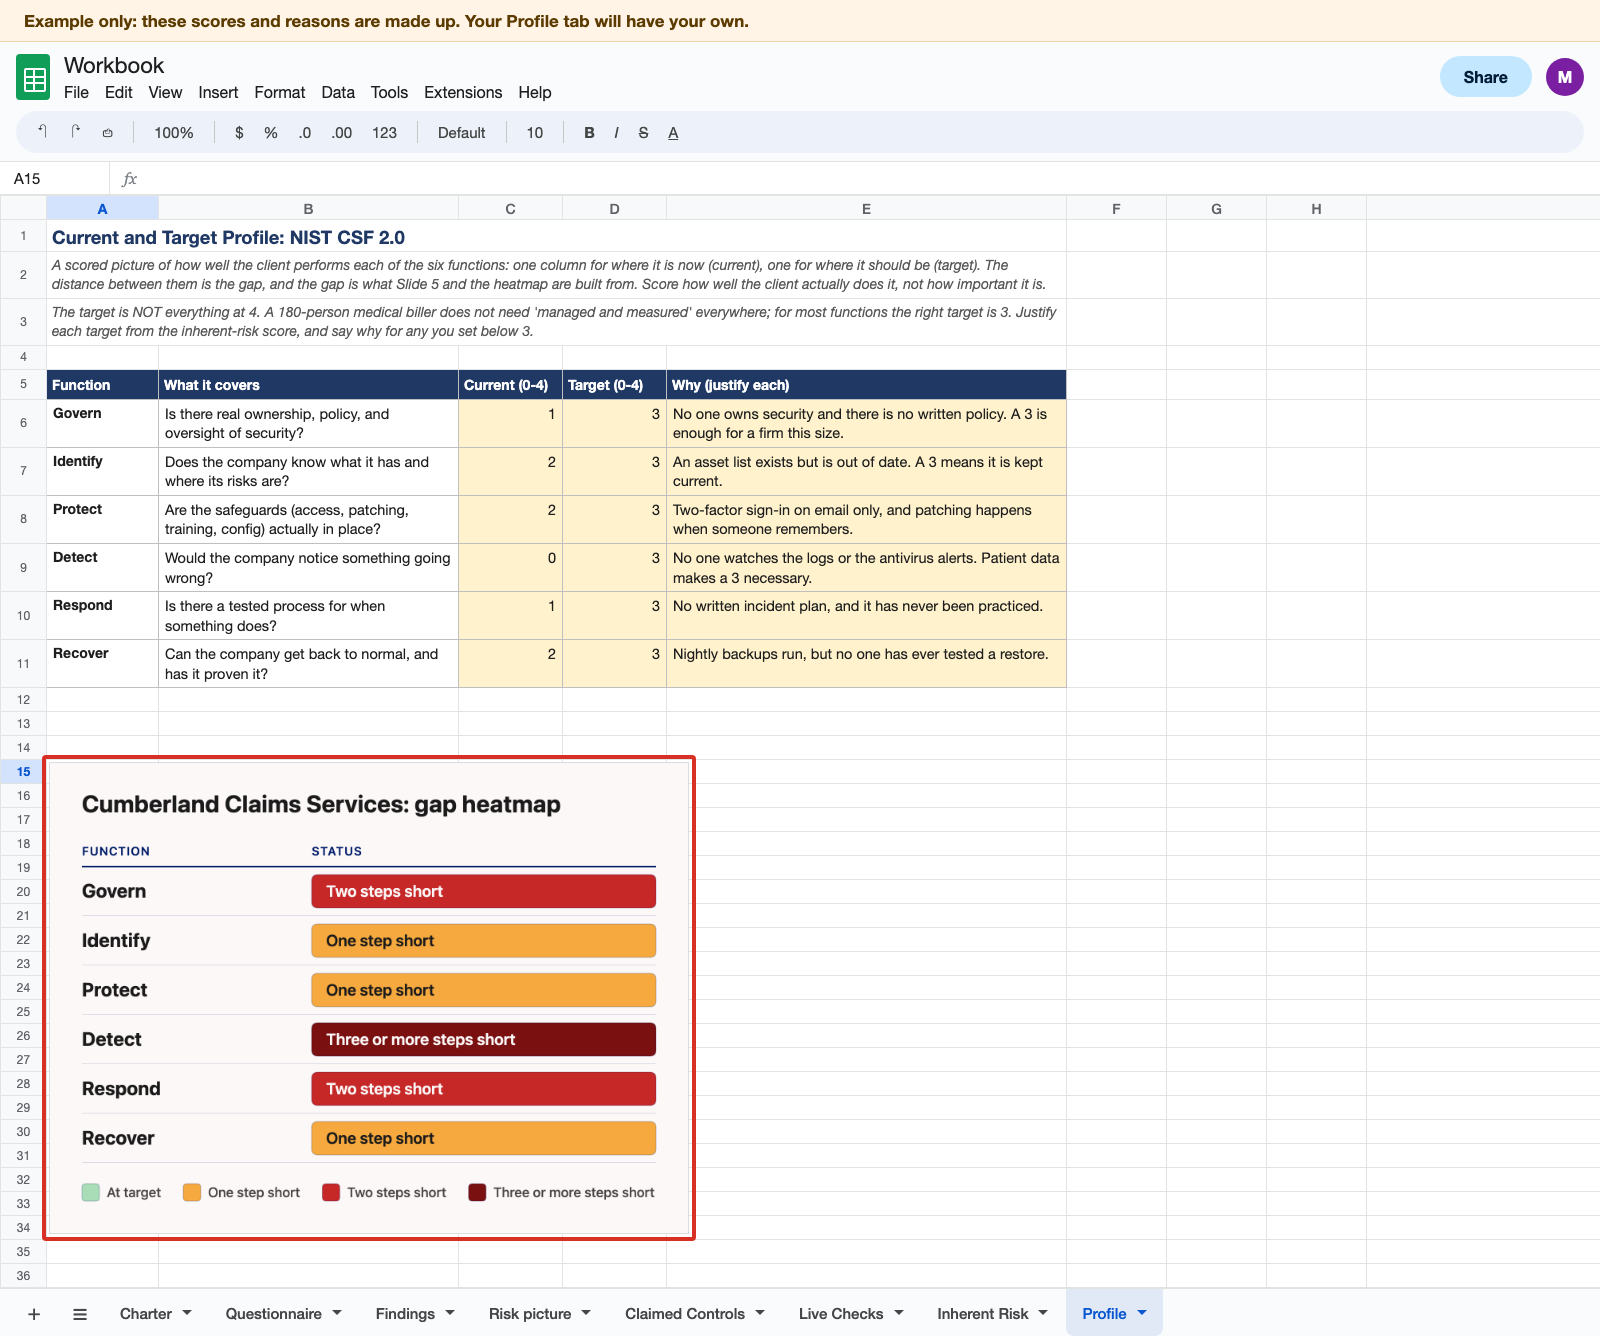
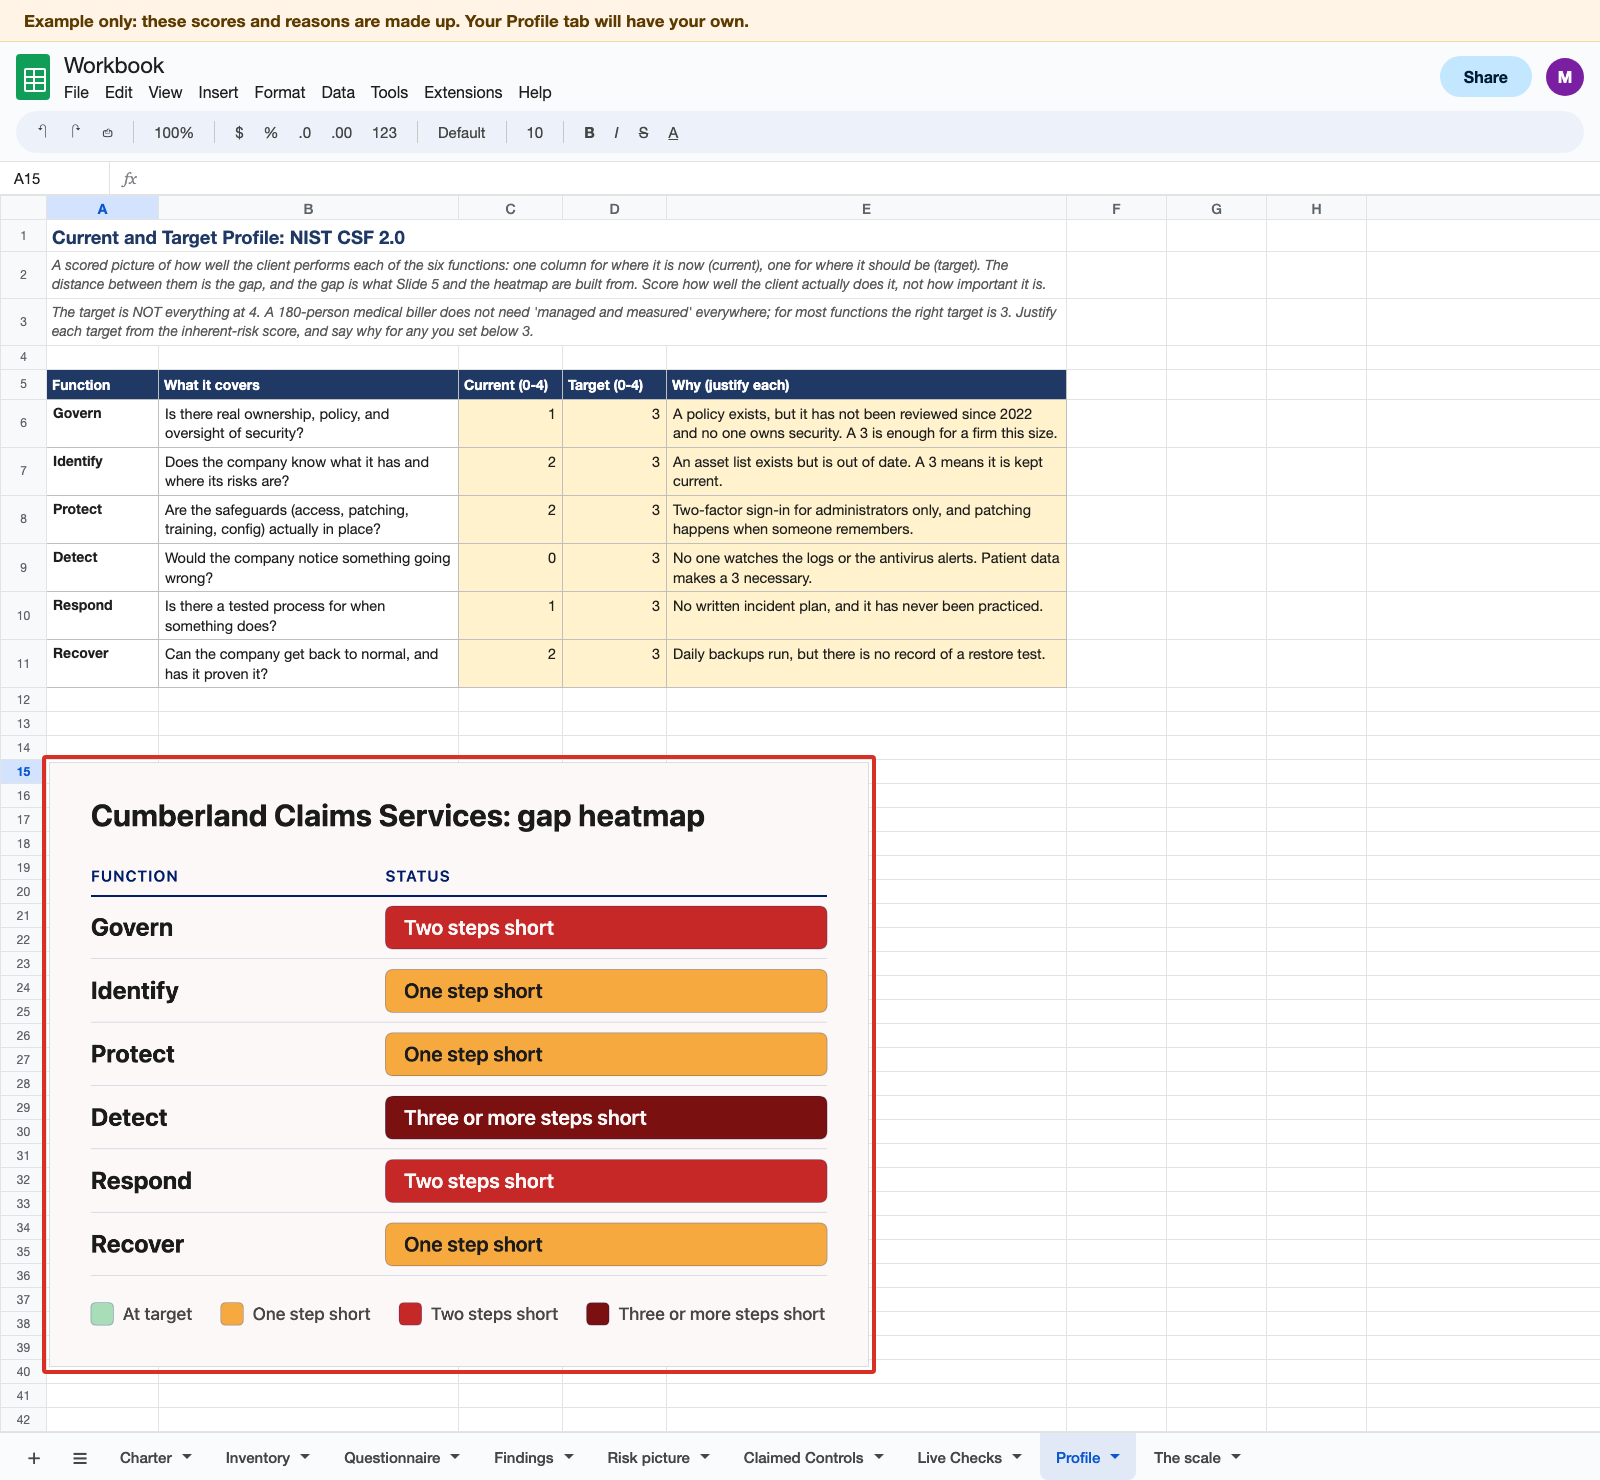
Publish vCISO P1 Step 1 interactives
Project 1 Step 1 interactives for the vCISO externship. Extern palette
only, vanilla JS, no external requests, keyboard operable, reduced-motion
safe.

diff --git a/vciso-p2-m6-click-what-should-worry-you.html b/vciso-p2-m6-click-what-should-worry-you.html
@@ -335,6 +335,7 @@
   var PORT_DEF = "<b>A port.</b> A numbered door on a machine. An open port means some service is waiting behind it for anyone who knocks.";
   var CVE_DEF  = "<b>A CVE.</b> A public ID for one specific known flaw in one piece of software, written as CVE, a year, and a number.";
   var OLD = "This version hasn't been updated in years.";
+  var OLD_2016 = "Windows Server 2016 is still supported, but the flaw code on this page was fixed in 2021, so this server has missed years of updates.";
   var WHY_EXACT = "Known flaws are listed against exact versions. Once you know the version, you can look up what is wrong with it.";
 
   var SEG = {
@@ -356,7 +357,7 @@
         { segs:[SEG.a, SEG.ms, { raw:"iis", mean:"product" }, { raw:"10.0", mean:"version" }],
           reads:"Microsoft IIS 10.0, which serves web pages" }
       ],
-      verWhy:OLD + " " + WHY_EXACT,
+      verWhy:OLD_2016 + " " + WHY_EXACT,
       sw:"Microsoft Windows Server 2016, with Microsoft IIS 10.0",
       tagTxt:[] },
     B:{ name:"Payments and Remittance", ic:"coin",
@@ -368,7 +369,7 @@
         { segs:[SEG.o, SEG.ms, { raw:"windows_server_2016", mean:"product and version" }],
           reads:"Microsoft Windows Server 2016" }
       ],
-      verWhy:OLD + " " + WHY_EXACT,
+      verWhy:OLD_2016 + " " + WHY_EXACT,
       sw:"Microsoft Windows Server 2016",
       tagTxt:[{ t:"self-signed", m:"the server's certificate, its ID card for secure connections, vouches for itself instead of being vouched for by a trusted outside company." }] },
     C:{ name:"Patient Records and Archive", ic:"archive",
@@ -726,7 +727,7 @@
       + card("door", "Open ports", esc(sc.ports.join(", ")), true,
           WORDS[sc.ports.length].charAt(0).toUpperCase() + WORDS[sc.ports.length].slice(1) + " doors anyone on the internet can knock on.")
       + card("chip", "Software and version", esc(sc.sw), false,
-          st.scope === "C" ? "Out of support since October 2023. Microsoft no longer fixes its flaws. " + OLD : OLD + " The exact version is how you look up what is wrong with it.")
+          st.scope === "C" ? "Out of support since October 2023. Microsoft no longer fixes its flaws. " + OLD : (st.scope === "A" || st.scope === "B" ? OLD_2016 : OLD) + " The exact version is how you look up what is wrong with it.")
       + card("bug", "Flaw " + (sc.vulns.length > 1 ? "codes" : "code"), sc.vulns.map(esc).join("<br>"), true,
           (sc.vulns.length > 1 ? "Public IDs for known flaws" : "A public ID for one known flaw") + " in this software.")
       + "</div>";
